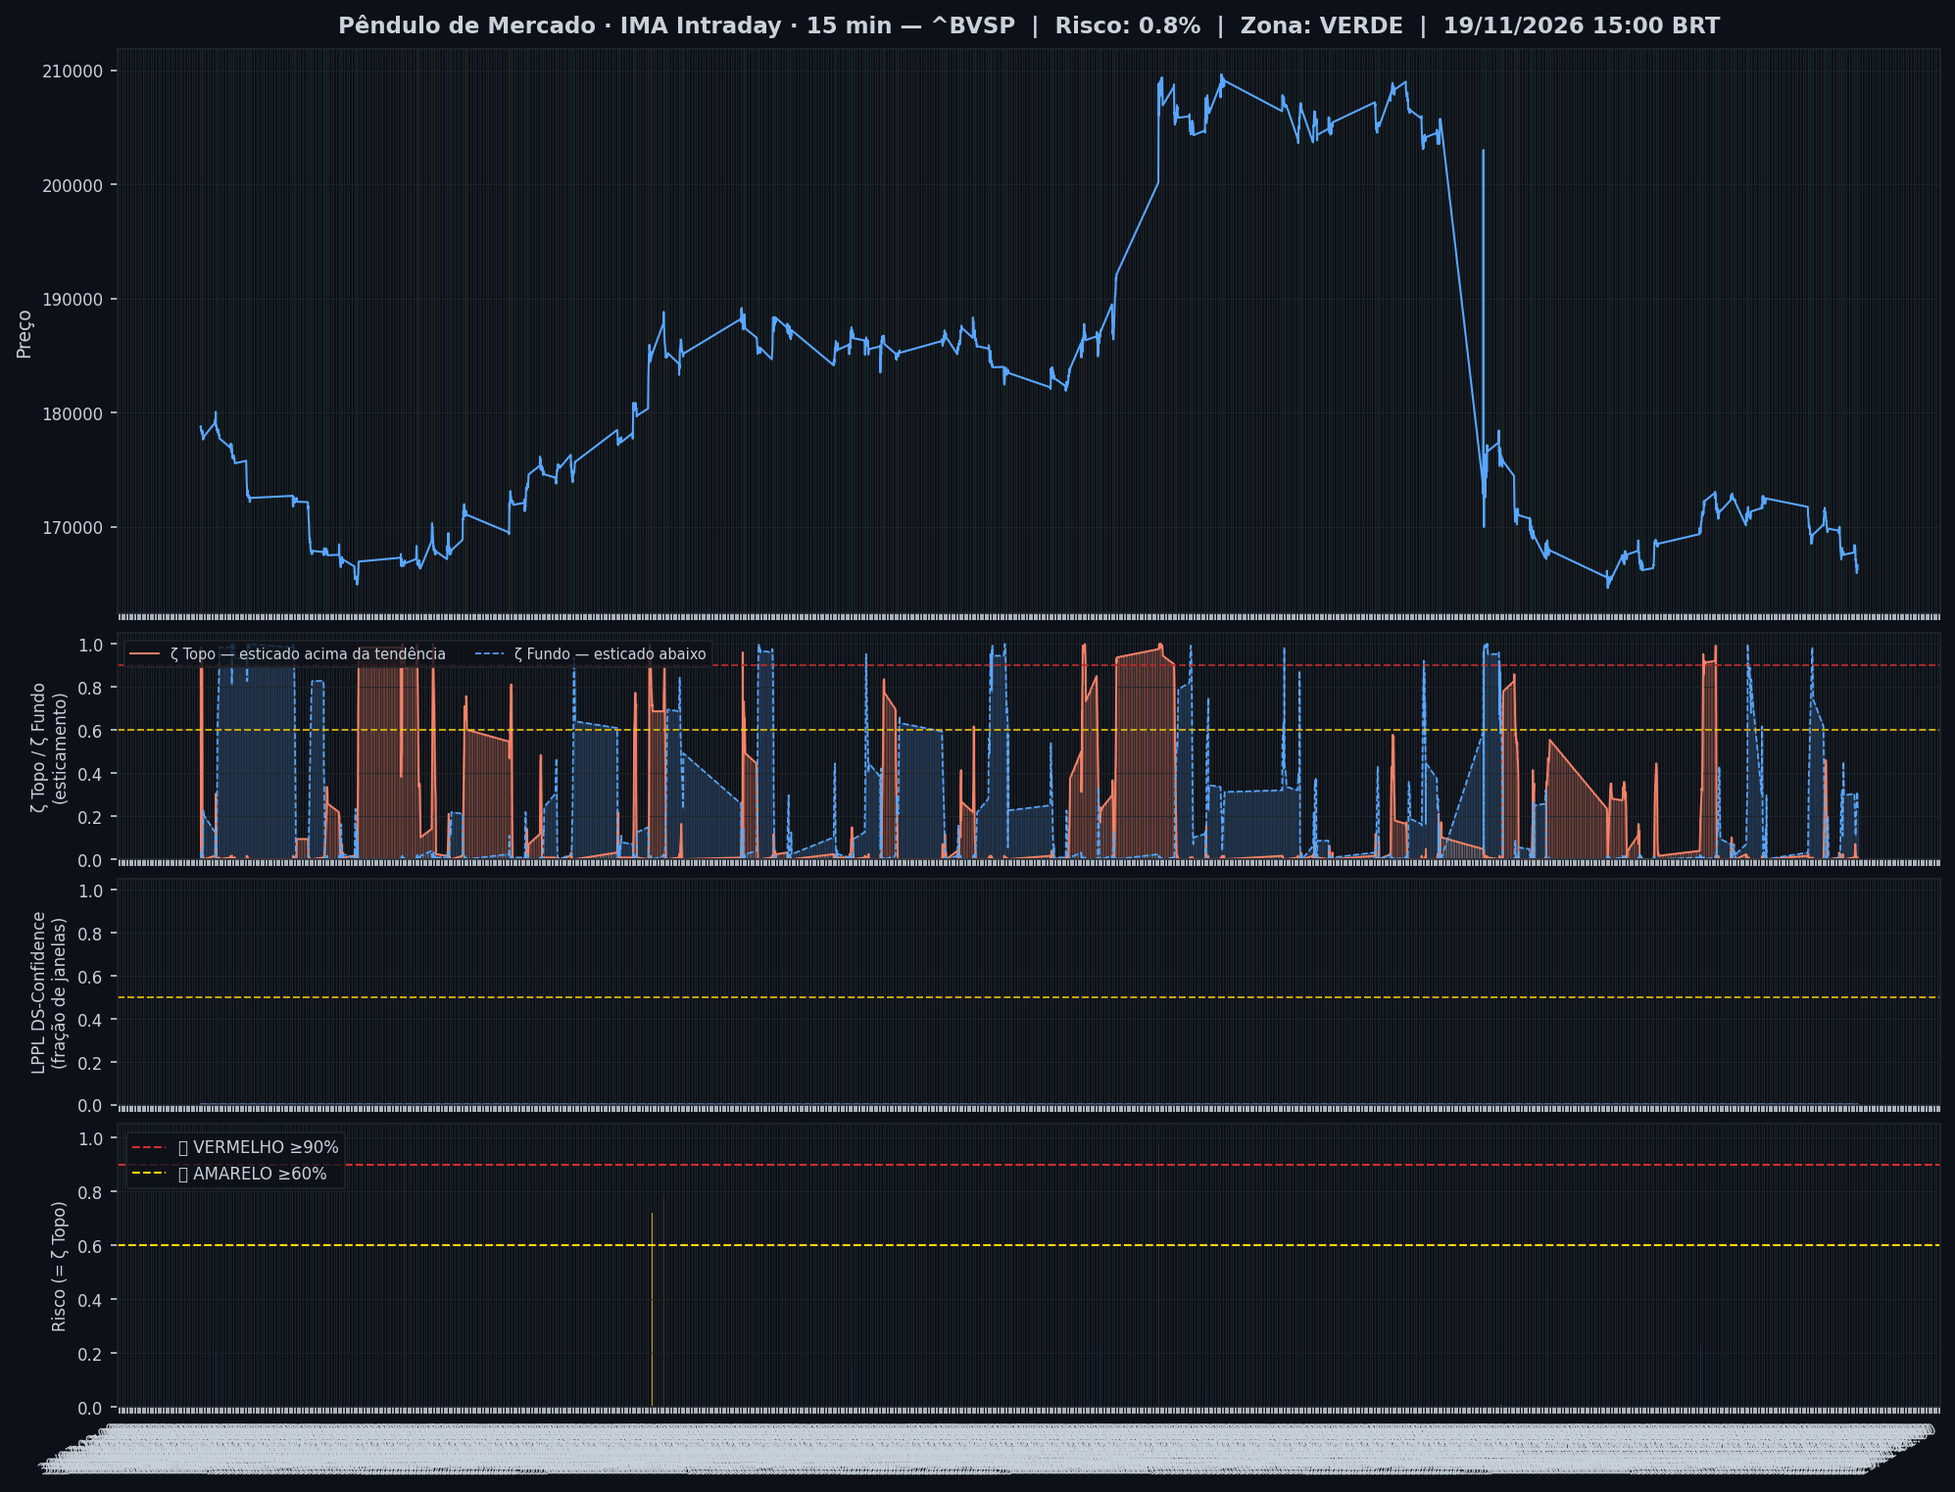
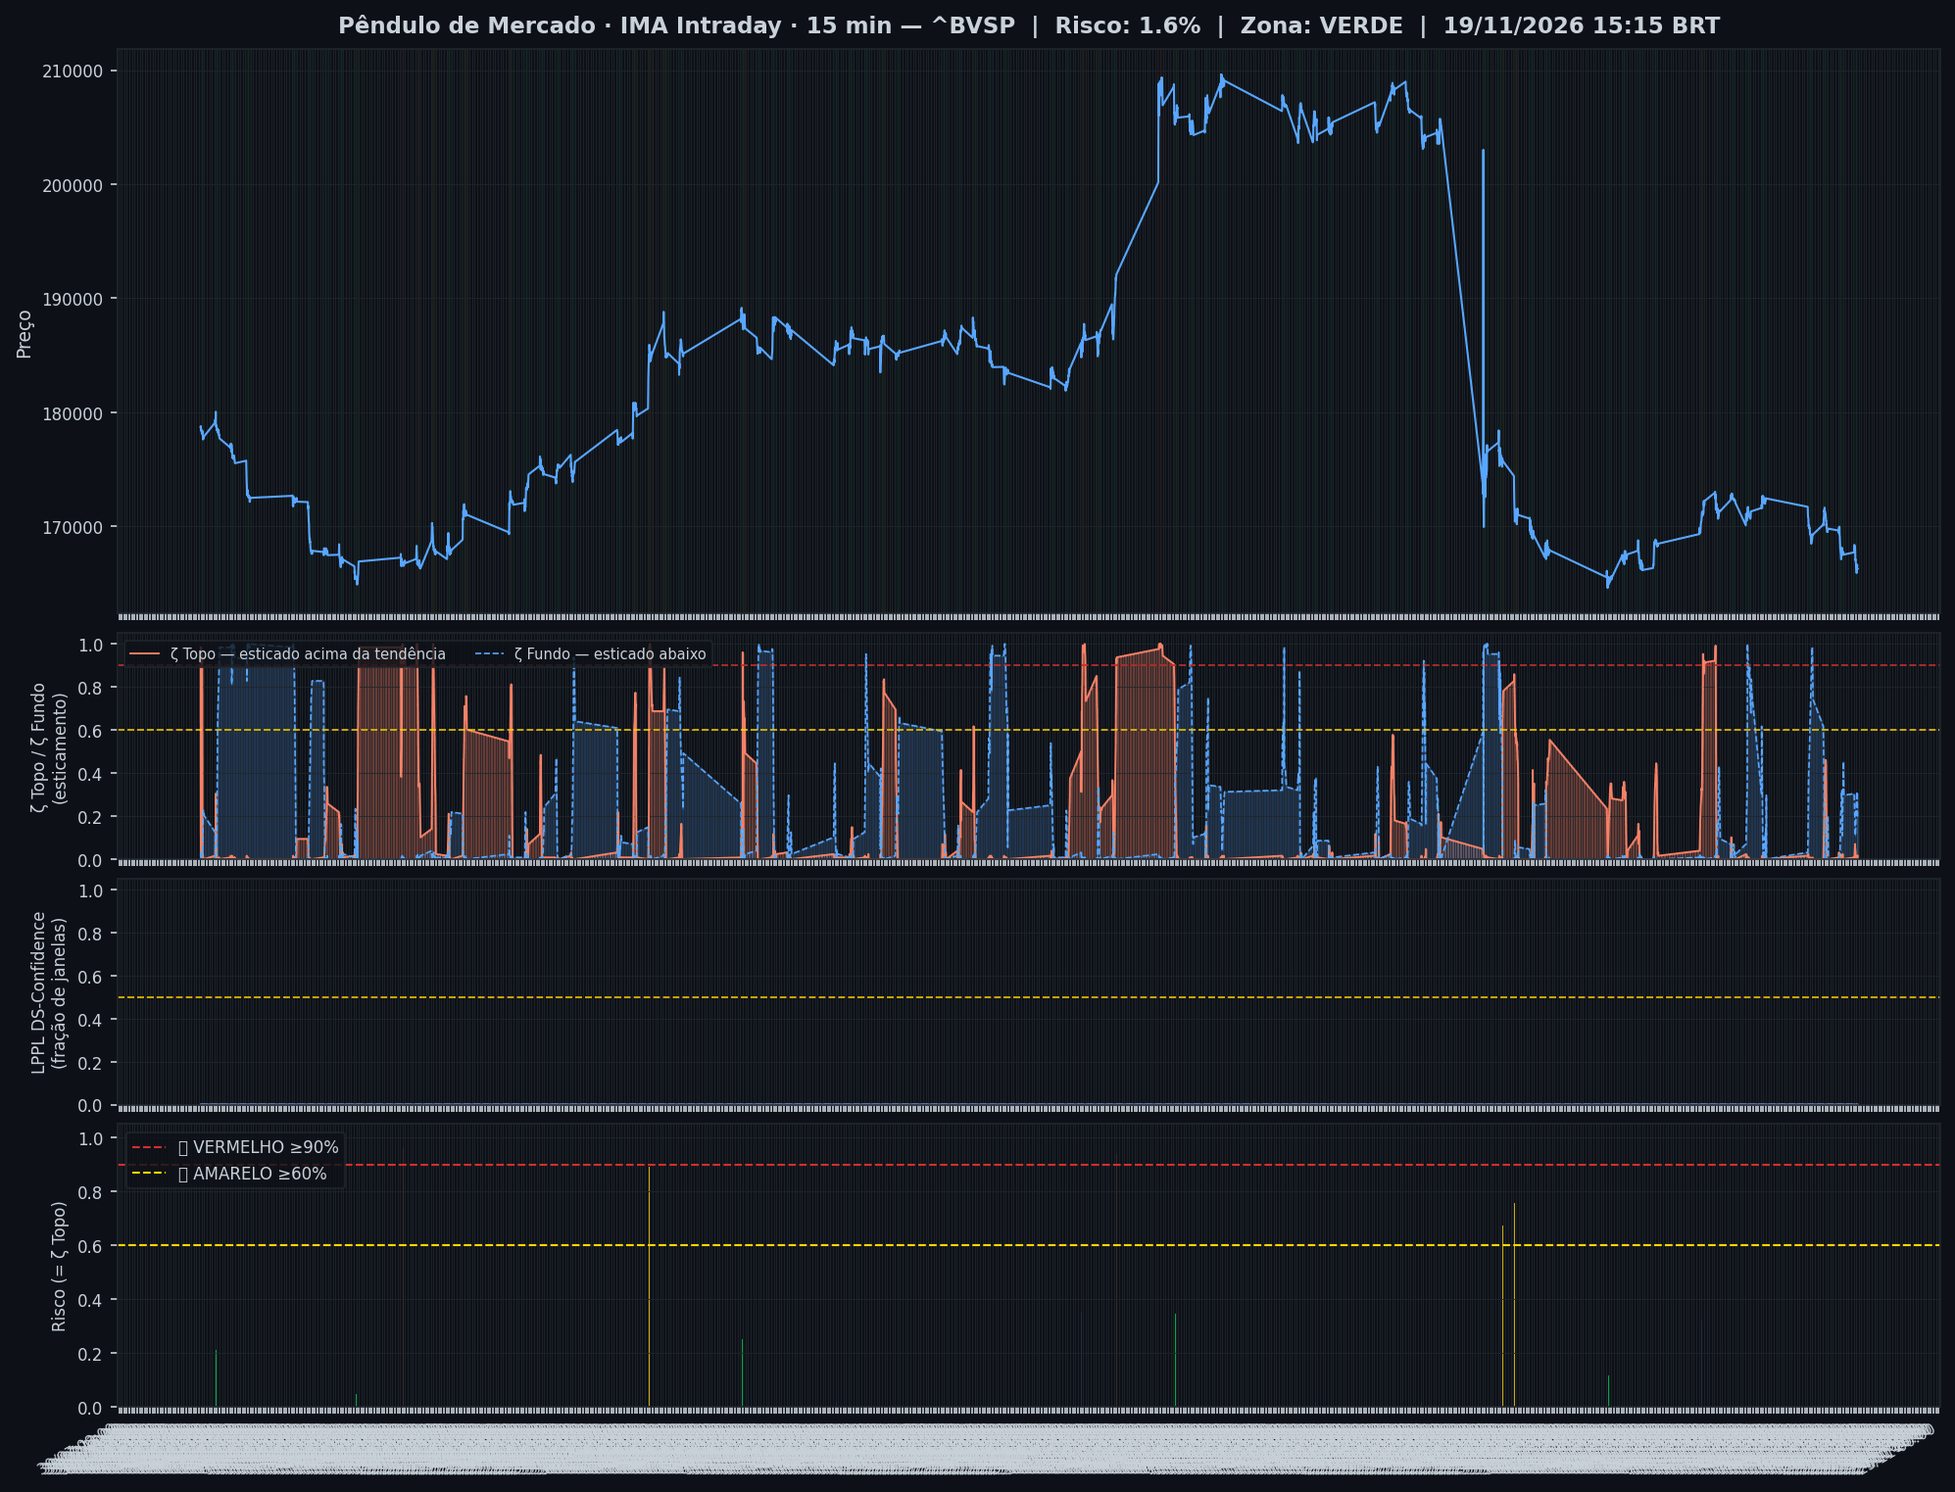
🤖 Auto: Sinal 19/11/2026 15:31

Changed region(s): [[0.0932, 0.432, 0.9634, 0.5863], [0.0311, 0.9258, 0.9945, 0.9875]]

diff --git a/content/intraday/2026-11-19.md b/content/intraday/2026-11-19.md
@@ -1,13 +1,13 @@
 ---
-title: "🟢 Intraday 19/11/2026 15:00 BRT — VERDE"
+title: "🟢 Intraday 19/11/2026 15:15 BRT — VERDE"
 date: 2026-11-19
 tags: [intraday]
 ---
 
-> [!success] Onde o mercado está agora (19/11 15:00, candles de 15 min): **🟢 Calmo**
+> [!success] Onde o mercado está agora (19/11 15:15, candles de 15 min): **🟢 Calmo**
 > `Pânico ◀────────●────────────▶ Euforia`
 >
-> **O Ibovespa cai 0,77% agora, aos 166.252 pontos.** O preço está dentro da sua faixa normal, sem excesso para cima nem para baixo.
+> **O Ibovespa cai 0,76% agora, aos 166.272 pontos.** O preço está dentro da sua faixa normal, sem excesso para cima nem para baixo.
 > No gráfico diário: 🌱 Fundo se desfazendo.
 >
 > *Leitura educacional baseada em 26 anos de dados. Não é recomendação de investimento.*
@@ -20,7 +20,7 @@ tags: [intraday]
 > | 📍 **Sinais** | hoje: nenhum sinal | [abrir](sinais-topo-fundo/) |
 > | 🧪 **Placar ao vivo** | 1 operação(ões), 0 com lucro, soma -0,8% | [abrir](operacoes/) |
 
-> [!success] IMA Intraday · 15 min (19/11 15:00): 🟢 **VERDE** — Risco 1% · ▲ +1 p.p. vs leitura anterior
+> [!success] IMA Intraday · 15 min (19/11 15:15): 🟢 **VERDE** — Risco 2% · ▲ +1 p.p. vs leitura anterior
 > `░░░░░░░░░░░░░░░░░░░░`
 > Preço na faixa normal em torno da tendência.
 
@@ -32,13 +32,13 @@ tags: [intraday]
 >
 > *Leitura educacional baseada em 26 anos de dados, não recomendação. [Como usar](../metodologia/crise#3-como-usar-na-prática).*
 
-| Indicador — IMA Intraday · 15 min (19/11 15:00) | Valor |
+| Indicador — IMA Intraday · 15 min (19/11 15:15) | Valor |
 |---|---|
-| 🔴 ζ Topo — preço esticado acima da tendência | **1%** |
-| 🔵 ζ Fundo — preço esticado abaixo da tendência | 23% |
+| 🔴 ζ Topo — preço esticado acima da tendência | **2%** |
+| 🔵 ζ Fundo — preço esticado abaixo da tendência | 19% |
 | 🫧 LPPL bolha — alta super-exponencial (risco de crash) | 0% |
 | 🫧 LPPL antibolha — queda super-exponencial (risco de repique) | 0% |
-| 📊 Ibovespa | 166.252 pts |
+| 📊 Ibovespa | 166.272 pts |
 
 ![Gráfico do sinal](../graficos/sinal_intraday.png)
 
@@ -46,6 +46,7 @@ tags: [intraday]
 
 | Data | Zona | Evento | Risco | ζ Topo | ζ Fundo | LPPL |
 |---|---|---|---|---|---|---|
+| 2026-11-19 15:15 | 🟢 VERDE |  | **2%** | 2% | 19% | 0% |
 | 2026-11-19 15:00 | 🟢 VERDE |  | **1%** | 1% | 23% | 0% |
 | 2026-11-19 14:45 | 🟢 VERDE |  | **0%** | 0% | 27% | 0% |
 | 2026-11-19 14:30 | 🟢 VERDE |  | **0%** | 0% | 30% | 0% |
@@ -75,7 +76,6 @@ tags: [intraday]
 | 2026-11-18 16:45 | 🟢 VERDE |  | **0%** | 0% | 38% | 0% |
 | 2026-11-18 16:30 | 🟢 VERDE |  | **1%** | 1% | 30% | 0% |
 | 2026-11-18 16:15 | 🟢 VERDE |  | **2%** | 2% | 23% | 0% |
-| 2026-11-18 16:00 | 🟢 VERDE |  | **2%** | 2% | 16% | 0% |
 
 <small>Destaques: 🟡 ≥ 60% · 🔴 ≥ 90% (Risco e ζ Topo) · 🔵 ≥ 60% · 🔪 ≥ 90% (ζ Fundo) · 🫧 ≥ 30% · 🫧🔴 ≥ 50% (LPPL)</small>
 
@@ -84,43 +84,43 @@ tags: [intraday]
 **4% dos ativos em tensão** (0🔴 1🟡) · **4 com ζ Fundo alto** — quanto mais ativos disparam juntos, mais confiável o sinal.
 
 > [!danger] Em destaque no multi-ativo
-> 🔪 **PRIO** ζ Fundo 99% · 🟡 **BRASIL** ζ Topo 84% · 🔵 **SUZANO S.A.** ζ Fundo 80% · 🔵 **REDE D OR** ζ Fundo 69% · 🔵 **TELEF BRASIL** ζ Fundo 60%
+> 🔪 **PRIO** ζ Fundo 98% · 🟡 **BRASIL** ζ Topo 80% · 🔵 **SUZANO S.A.** ζ Fundo 79% · 🔵 **REDE D OR** ζ Fundo 72% · 🔵 **BRADESCO** ζ Fundo 68%
 
 | Zona | Ativo | Setor | ζ Topo | ζ Fundo |
 |---|---|---|---|---|
-| 🟢 | **PRIO** | Petróleo | 0.8% | 🔪 **99.2%** |
-| 🟡 | **BRASIL** | Financeiro | 🟡 **83.6%** | 0.0% |
-| 🟢 | **SUZANO S.A.** | Papel/Celulose | 0.0% | 🔵 **79.7%** |
-| 🟢 | **REDE D OR** | Saúde | 0.0% | 🔵 **68.8%** |
-| 🟢 | **TELEF BRASIL** | Outros | 0.0% | 🔵 **60.2%** |
-| 🟢 | **BRADESCO** | Financeiro | 0.8% | 56.2% |
-| 🟢 | **RUMO S.A.** | Outros | 0.0% | 56.2% |
-| 🟢 | **EMBRAER** | Outros | 40.6% | 1.6% |
-| 🟢 | **AMBEV S/A** | Consumo | 4.7% | 34.4% |
-| 🟢 | **B3** | Financeiro | 27.3% | 2.3% |
-| 🟢 | **WEG** | Industrial | 0.8% | 20.3% |
-| 🟢 | **COPEL** | Energia | 2.3% | 15.6% |
-| 🟢 | **EQUATORIAL** | Energia | 0.0% | 13.3% |
-| 🟢 | **PETROBRAS** | Petróleo | 0.0% | 11.7% |
-| 🟢 | **PETROBRAS** | Petróleo | 0.0% | 11.7% |
-| 🟢 | **AXIA ENERGIA** | Energia | 0.8% | 10.9% |
-| 🟢 | **USD/BRL** | Câmbio | 3.1% | 10.9% |
-| 🟢 | **GERDAU** | Siderurgia | 8.6% | 2.3% |
-| 🟢 | **SABESP** | Saneamento | 7.0% | 0.8% |
-| 🟢 | **LOCALIZA** | Aluguel | 1.6% | 7.0% |
-| 🟢 | **VALE** | Mineração | 0.8% | 6.2% |
+| 🟢 | **PRIO** | Petróleo | 1.6% | 🔪 **98.4%** |
+| 🟡 | **BRASIL** | Financeiro | 🟡 **80.5%** | 0.0% |
+| 🟢 | **SUZANO S.A.** | Papel/Celulose | 0.8% | 🔵 **78.9%** |
+| 🟢 | **REDE D OR** | Saúde | 0.8% | 🔵 **71.9%** |
+| 🟢 | **BRADESCO** | Financeiro | 1.6% | 🔵 **68.0%** |
+| 🟢 | **RUMO S.A.** | Outros | 0.8% | 57.8% |
+| 🟢 | **TELEF BRASIL** | Outros | 0.8% | 51.6% |
+| 🟢 | **EMBRAER** | Outros | 41.4% | 0.0% |
+| 🟢 | **B3** | Financeiro | 32.8% | 0.8% |
+| 🟢 | **AMBEV S/A** | Consumo | 4.7% | 32.8% |
+| 🟢 | **WEG** | Industrial | 1.6% | 21.9% |
+| 🟢 | **EQUATORIAL** | Energia | 0.0% | 15.6% |
+| 🟢 | **USD/BRL** | Câmbio | 1.6% | 14.8% |
+| 🟢 | **PETROBRAS** | Petróleo | 0.0% | 12.5% |
+| 🟢 | **PETROBRAS** | Petróleo | 0.8% | 10.9% |
+| 🟢 | **AXIA ENERGIA** | Energia | 1.6% | 10.9% |
+| 🟢 | **COPEL** | Energia | 3.1% | 10.9% |
+| 🟢 | **SABESP** | Saneamento | 10.2% | 0.0% |
+| 🟢 | **VIBRA** | Energia | 0.0% | 8.6% |
+| 🟢 | **GERDAU** | Siderurgia | 7.0% | 0.0% |
 | 🟢 | **ITAUSA** | Financeiro | 5.5% | 0.0% |
-| 🟢 | **VIBRA** | Energia | 0.8% | 5.5% |
-| 🟢 | **ENEVA** | Energia | 3.9% | 0.0% |
-| 🟢 | **ULTRAPAR** | Outros | 0.8% | 3.9% |
-| 🟢 | **BTGP BANCO** | Financeiro | 3.1% | 1.6% |
-| 🟢 | **ITAUUNIBANCO** | Financeiro | 1.6% | 0.0% |
+| 🟢 | **ENEVA** | Energia | 4.7% | 0.8% |
+| 🟢 | **LOCALIZA** | Aluguel | 1.6% | 4.7% |
+| 🟢 | **BTGP BANCO** | Financeiro | 3.9% | 0.0% |
+| 🟢 | **VALE** | Mineração | 0.8% | 2.3% |
+| 🟢 | **ITAUUNIBANCO** | Financeiro | 2.3% | 0.0% |
+| 🟢 | **ULTRAPAR** | Outros | 1.6% | 2.3% |
 
 <small>Destaques: 🟡 ≥ 60% · 🔴 ≥ 90% (Risco e ζ Topo) · 🔵 ≥ 60% · 🔪 ≥ 90% (ζ Fundo) · 🫧 ≥ 30% · 🫧🔴 ≥ 50% (LPPL)</small>
 
 ![Monitor multi-ativo](../graficos/multi_intraday.png)
 
-*Página atualizada em 19/11/2026 15:16 BRT (leitura da barra de 2026-11-19 15:00 BRT).*
+*Página atualizada em 19/11/2026 15:31 BRT (leitura da barra de 2026-11-19 15:15 BRT).*
 
 > [!warning] O que este indicador não faz
 > Medido em 5 anos de Ibovespa, o ζ **não antecipa** topos nem fundos: a capacidade de separar o que sobe do que cai ficou em 0,49–0,52, e 0,50 é moeda jogada ao ar. Ele descreve o estado de agora; não é aviso do que vem. As zonas verde/amarelo/vermelho continuam na página como descrição desse estado — **não as use como sinal de entrada ou saída**.

diff --git a/content/index.md b/content/index.md
@@ -6,12 +6,12 @@ tags: [home]
 
 **As ondas do mercado, explicadas.** Leitura do Ibovespa com estatística de 26 anos, baseada no trabalho de pesquisadores e traders reconhecidos e adaptada por Jarbas Daniel da Costa.
 
-*Última atualização: 19/11/2026 15:16 BRT · Intraday 15min*
+*Última atualização: 19/11/2026 15:31 BRT · Intraday 15min*
 
-> [!success] Onde o mercado está agora (19/11 15:00, candles de 15 min): **🟢 Calmo**
+> [!success] Onde o mercado está agora (19/11 15:15, candles de 15 min): **🟢 Calmo**
 > `Pânico ◀────────●────────────▶ Euforia`
 >
-> **O Ibovespa cai 0,77% agora, aos 166.252 pontos.** O preço está dentro da sua faixa normal, sem excesso para cima nem para baixo.
+> **O Ibovespa cai 0,76% agora, aos 166.272 pontos.** O preço está dentro da sua faixa normal, sem excesso para cima nem para baixo.
 > No gráfico diário: 🌱 Fundo se desfazendo.
 >
 > *Leitura educacional baseada em 26 anos de dados. Não é recomendação de investimento.*
@@ -20,7 +20,7 @@ tags: [home]
 
 | Módulo | Agora | |
 |---|---|---|
-| 🌊 **Sinal IMA** | 🟢 VERDE · 🟢 calmo · ζ Topo 1% | [relatório](intraday/2026-11-19) |
+| 🌊 **Sinal IMA** | 🟢 VERDE · 🟢 calmo · ζ Topo 2% | [relatório](intraday/2026-11-19) |
 | 📈 **Tendência MME9** | Diário — fora<br>Semanal — fora | [abrir](operacoes/tendencia) |
 | 🎯 **Entradas do método** | ⏳ aguardando: Diário · Semáforo N3 após ζ Fundo | [abrir](operacoes/entradas) |
 | 📍 **Sinais** | hoje: nenhum sinal | [abrir](sinais-topo-fundo/) |
@@ -44,18 +44,18 @@ tags: [home]
 > *Leitura educacional baseada em 26 anos de dados, não recomendação. [Como usar](metodologia/crise#3-como-usar-na-prática).*
 
 > [!info]- 🌊 Detalhes do Sinal IMA (indicadores e últimos 7 pregões)
-> > [!success] IMA Intraday · 15 min (19/11 15:00): 🟢 **VERDE** — Risco 1% · ▲ +1 p.p. vs leitura anterior
+> > [!success] IMA Intraday · 15 min (19/11 15:15): 🟢 **VERDE** — Risco 2% · ▲ +1 p.p. vs leitura anterior
 > > `░░░░░░░░░░░░░░░░░░░░`
 > > Preço na faixa normal em torno da tendência.
 >
 >
-> | Indicador — IMA Intraday · 15 min (19/11 15:00) | Valor |
+> | Indicador — IMA Intraday · 15 min (19/11 15:15) | Valor |
 > |---|---|
-> | 🔴 ζ Topo — preço esticado acima da tendência | **1%** |
-> | 🔵 ζ Fundo — preço esticado abaixo da tendência | 23% |
+> | 🔴 ζ Topo — preço esticado acima da tendência | **2%** |
+> | 🔵 ζ Fundo — preço esticado abaixo da tendência | 19% |
 > | 🫧 LPPL bolha — alta super-exponencial (risco de crash) | 0% |
 > | 🫧 LPPL antibolha — queda super-exponencial (risco de repique) | 0% |
-> | 📊 Ibovespa | 166.252 pts |
+> | 📊 Ibovespa | 166.272 pts |
 >
 > **Multi-ativo:** 4% em tensão (0🔴 1🟡 de 27 ativos)
 >
@@ -63,7 +63,7 @@ tags: [home]
 >
 > | Data | Zona | Risco | ζ Topo | ζ Fundo | LPPL |
 > |---|---|---|---|---|---|
-> | [19/11/2026](intraday/2026-11-19) | 🟢 VERDE | **1%** | 1% | 23% | 0% |
+> | [19/11/2026](intraday/2026-11-19) | 🟢 VERDE | **2%** | 2% | 19% | 0% |
 > | [18/11/2026](intraday/2026-11-18) | 🟢 VERDE | **0%** | 0% | 30% | 0% |
 >
 > <small>Destaques: 🟡 ≥ 60% · 🔴 ≥ 90% (Risco e ζ Topo) · 🔵 ≥ 60% · 🔪 ≥ 90% (ζ Fundo) · 🫧 ≥ 30% · 🫧🔴 ≥ 50% (LPPL)</small>

diff --git a/content/operacoes/entradas.md b/content/operacoes/entradas.md
@@ -31,7 +31,7 @@ description: "Compra depois de um sinal de fundo: Nadaraya no diário, semáforo
 > | Diário · Semáforo N3 após ζ Fundo | 07/07/26 a 172.021 | 10/08/26 a 172.021 | **+0,0%** | stop no preço de entrada |
 > | H4 · Semáforo N2 | 12/06/26 14h a 171.134 | 15/06/26 14h a 171.134 | **+0,0%** | stop no preço de entrada |
 >
-> <small>Atualizado 18/11 19:01 · checado no pregão às 15:15. Nota: ✅ passou no teste fora da amostra (walk-forward 2008–2026) · 🧪 em teste (H4, com aviso no Telegram) ou em observação (ζ, sem aviso) · 🧪 na tabela = operação do teste ao vivo.</small>
+> <small>Atualizado 18/11 19:01 · checado no pregão às 15:30. Nota: ✅ passou no teste fora da amostra (walk-forward 2008–2026) · 🧪 em teste (H4, com aviso no Telegram) ou em observação (ζ, sem aviso) · 🧪 na tabela = operação do teste ao vivo.</small>
 >
 > *Regras: depois de um sinal de fundo, o Diário entra quando o Nadaraya vira para cima; o Semanal e o H4 entram quando um fundo do semáforo fica fixo. Stop e saída de cada regra na [metodologia](metodologia/regras-de-operacao#entradas-do-método). Nenhuma regra de venda passou no teste. Os números do histórico têm viés de escolha (overfitting); o placar ao vivo é o que vale. Leitura educacional do método, não recomendação.*
 

diff --git a/content/historico.md b/content/historico.md
@@ -5,9 +5,9 @@ tags: [historico]
 
 # 📜 Histórico de leituras (v5)
 
-**2.502 leituras** desde 2026-07-03. Na página ficam os últimos 3 dias leitura por leitura e o resumo de cada dia anterior; o registro inteiro está no arquivo para baixar.
+**2.503 leituras** desde 2026-07-03. Na página ficam os últimos 3 dias leitura por leitura e o resumo de cada dia anterior; o registro inteiro está no arquivo para baixar.
 
-[**Baixar o histórico completo**](historico-completo.csv) (109 KB · abre no Excel e no LibreOffice)
+[**Baixar o histórico completo**](historico-completo.csv) (110 KB · abre no Excel e no LibreOffice)
 
 > [!info] Antes de 03/07/2026
 > As leituras do método v3 ficam em [histórico anterior](historico-anterior) — a escala do risco era outra, por isso elas não entram na mesma tabela.
@@ -16,6 +16,7 @@ tags: [historico]
 
 | Data | Modo | Zona | Risco | IMA | LPPL |
 |---|---|---|---|---|---|
+| 2026-11-19 15:15 | intraday | 🟢 VERDE | 2% | 2% | 0% |
 | 2026-11-19 15:00 | intraday | 🟢 VERDE | 1% | 1% | 0% |
 | 2026-11-19 14:45 | intraday | 🟢 VERDE | 0% | 0% | 0% |
 | 2026-11-19 14:30 | intraday | 🟢 VERDE | 0% | 0% | 0% |

diff --git a/content/integridade/index.md b/content/integridade/index.md
@@ -5,7 +5,7 @@ description: "O que foi conferido, contra qual fonte e quando — medido na hora
 tags: [integridade]
 ---
 
-*Pregão conferido: **18/11/2026**, com 59 tabelas no acervo · página gerada em 19/11/2026 15:16*
+*Pregão conferido: **18/11/2026**, com 59 tabelas no acervo · página gerada em 19/11/2026 15:31*
 
 O pregão conferido é o último **fechado e arquivado inteiro**, não o de hoje: enquanto o dia corre, só algumas tabelas estão gravadas, e conferir um dia pela metade produziria alarme falso.
 
@@ -22,7 +22,7 @@ Esta página não declara que o site está correto. Ela **mede** e escreve o res
 | Tabelas com conteúdo fora da curva | **1** — veja a seção 1 |
 | Páginas publicadas | 358 |
 | Conferências cruzadas das páginas | **2 divergência(s)** de 71 — veja a seção 2 |
-| Página escrita mais recentemente | 19/11 15:16 |
+| Página escrita mais recentemente | 19/11 15:31 |
 | Páginas sem data no cabeçalho | 9 — cegas para a conferência de dado |
 
 ## 1 · Acervo do boletim diário

diff --git a/content/operacoes/ranking.md b/content/operacoes/ranking.md
@@ -5,7 +5,7 @@ tags: [operacoes]
 description: "As regras de compra do site ordenadas pelo resultado, com treino, teste e placar ao vivo"
 ---
 
-*Atualizado 19/11/2026 15:16 · histórico simulado com as regras congeladas em 23/10/2026 + placar ao vivo.*
+*Atualizado 19/11/2026 15:31 · histórico simulado com as regras congeladas em 23/10/2026 + placar ao vivo.*
 
 As regras de compra do site, **da que mais rendeu para a que menos rendeu**. O resultado é por operação, no índice à vista, sem custos e sem juros compostos (a soma é só a soma das operações). **Treino** = entradas de 2001 a 2013 e **teste** = 2014 em diante: uma regra só é confiável se ganhou nos dois. O único resultado sem nenhum ajuste ao histórico é o **placar ao vivo**.
 

diff --git a/content/linha-do-tempo/index.md b/content/linha-do-tempo/index.md
@@ -5,7 +5,7 @@ description: "Todo sinal, ordem, stop e aviso do Pêndulo de Mercado, do mais re
 tags: [eventos]
 ---
 
-*Atualizada 19/11/2026 15:16 BRT · a cada 15 min no pregão e às 19h.*
+*Atualizada 19/11/2026 15:31 BRT · a cada 15 min no pregão e às 19h.*
 
 Tudo o que o sistema fez ou detectou, **do mais recente para o mais antigo**: sinais de topo e fundo, ordens de compra e de venda armadas, compras, vendas, stops, avisos de 🚨 preço perto do nível e mudanças do Sinal IMA. Os **últimos 7 dias** ficam abertos; o resto, por **ano → mês → dia**.
 

diff --git a/content/avisos/index.md b/content/avisos/index.md
@@ -2,7 +2,7 @@
 title: "⚠ Avisos: o que saber antes de usar os números"
 ---
 
-*Gerado em 19/11/2026 15:16*
+*Gerado em 19/11/2026 15:31*
 
 Este site publica muitos números, e cada um tem uma limitação que importa na hora de
 decidir. As limitações estão escritas nas próprias páginas, mas quem chega direto numa
